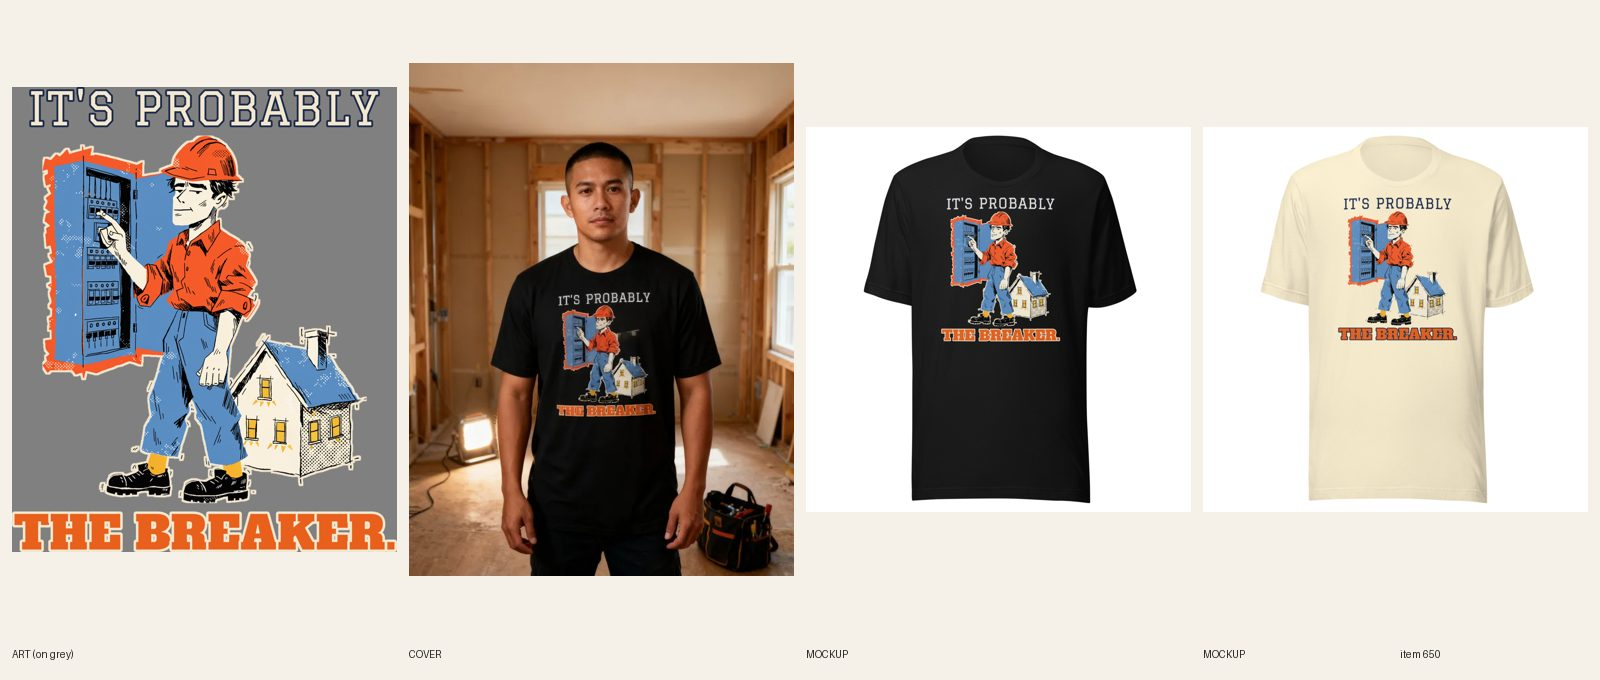
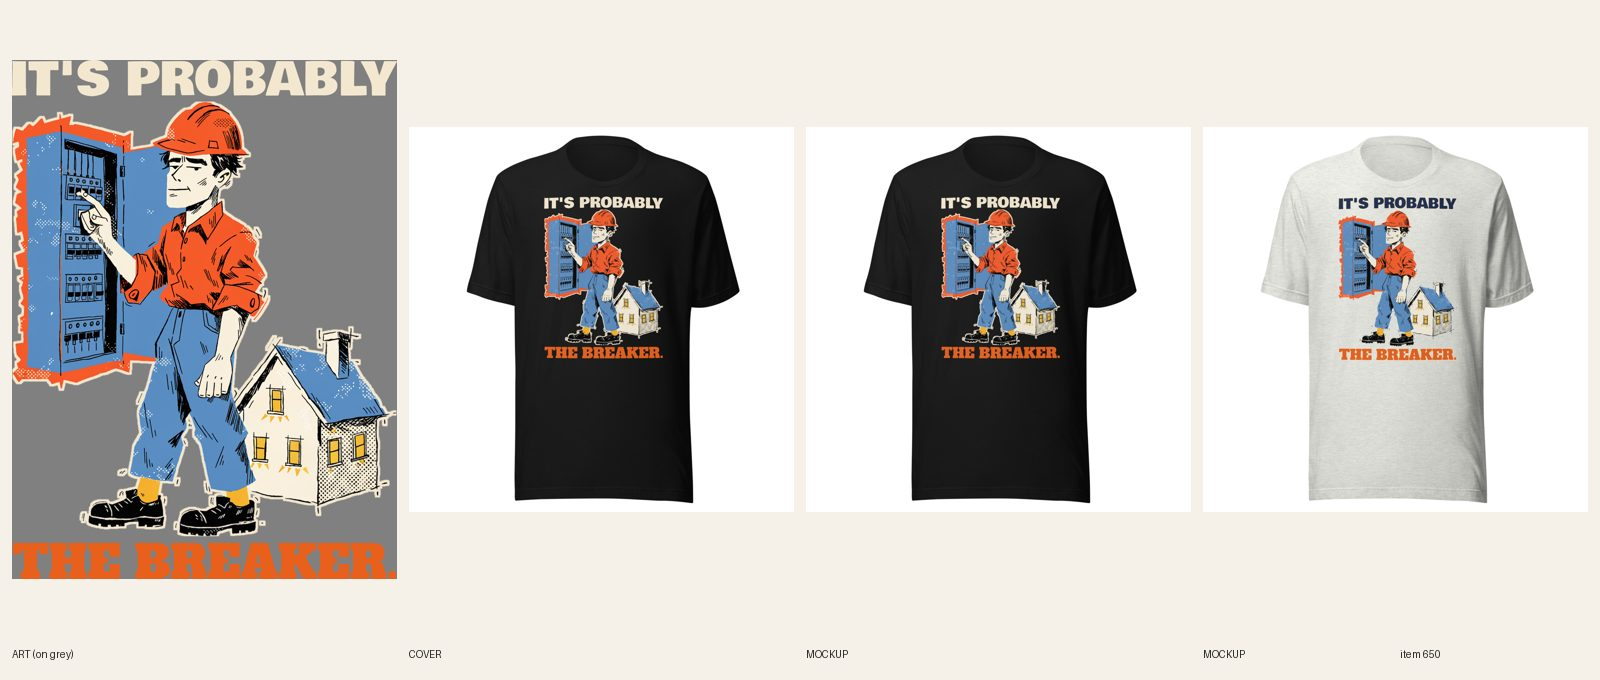
[E] review 650 Electrician It's Probably the Breaker tee (type redo)
Claude-Session: https://claude.ai/code/session_01EJqQXsS58F9S1PpjoqFE5d

diff --git a/designs/e650b/compose.py b/designs/e650b/compose.py
@@ -1,0 +1,27 @@
+#!/usr/bin/env python3
+"""#650 type redo: IT'S PROBABLY Bowlby One heavy at full art width, THE BREAKER. Alfa Slab One full art width, same electrician art.
+light file (dark blanks): cream + safety orange; dark file (Natural, Ash, Athletic Heather): navy + orange with cream keylines."""
+from PIL import Image, ImageDraw, ImageFont
+F = 'designs/fonts/'
+def line(text, font, fill, stroke, sfill, width):
+    size = 80
+    while True:
+        f = ImageFont.truetype(F + font, size)
+        bb = f.getbbox(text, stroke_width=stroke)
+        if bb[2] - bb[0] >= width or size > 2400: break
+        size += 4
+    im = Image.new('RGBA', (bb[2] - bb[0] + 20, bb[3] - bb[1] + 20), (0, 0, 0, 0))
+    ImageDraw.Draw(im).text((10 - bb[0], 10 - bb[1]), text, font=f, fill=fill, stroke_width=stroke, stroke_fill=sfill)
+    return im.crop(im.getbbox())
+def build(src, rows, out, c1, c2, s, k):
+    im = Image.open(src).convert('RGBA'); art = im.crop((0, rows[0], im.width, rows[1])); art = art.crop(art.getbbox()); W = art.width
+    l1 = line("IT'S PROBABLY", 'BowlbyOne-Regular.ttf', c1, k, s, W)
+    l2 = line('THE BREAKER.', 'AlfaSlabOne-Regular.ttf', c2, k, s, W)
+    stack = [l1, art, l2]; gaps = [40, 50]
+    o = Image.new('RGBA', (max(i.width for i in stack), sum(i.height for i in stack) + sum(gaps)), (0, 0, 0, 0)); y = 0
+    for n, i in enumerate(stack):
+        o.alpha_composite(i, ((o.width - i.width) // 2, y)); y += i.height + (gaps[n] if n < 2 else 0)
+    o.save(out, dpi=(300, 300)); print(out, o.size, 'ratio', o.height / o.width, 'l2/l1', l2.height / l1.height)
+CREAM, ORANGE, NAVY = '#f3e7cf', '#e8601c', '#1b2a4a'
+build('designs/e650/print_light.png', (431, 3693), 'designs/e650b/print_light.png', CREAM, ORANGE, NAVY, 0)
+build('designs/e650/print_dark.png', (417, 3679), 'designs/e650b/print_dark.png', NAVY, ORANGE, CREAM, 14)

diff --git a/docs/intake-log.md b/docs/intake-log.md
@@ -1,4 +1,4 @@
-RUNNING lane E since 2026-10-20 02:13 UTC
+2026-10-20 02:30 UTC — [E] Builder run: redid #650 Men's Electrician It's Probably the Breaker tee (type only: Bowlby One + Alfa Slab One at full art width, light file 1090101381 / dark file 1090101394, 56/56 relinked, 8 fronts replaced in place, copy updated, plain product shot). REVIEW. fal $0. Lock released.
 RUNNING director since 2026-10-20 02:13 UTC
 2026-10-19 22:06 UTC — [A] Builder run: redid #477 Women's Clocked It embroidered crewneck (type only: cat kept, heavy slab CLOCKED IT. at full cat width, SAID NOTHING. block letters on the cuff, white thread, 17/17 resynced, 4 images replaced in place, copy updated, plain product shot; fixed broken retired-covers.json comma). REVIEW. fal $0. Lock released.
 2026-10-19 22:41 UTC — [B] Builder run: redid #336 Women's Nana hoodie (type+line: NANA / WON'T TELL MOM., 12/12 relinked on 1089952064, 2 mockups replaced in place, copy updated, plain product shot). REVIEW. fal $0.
@@ -6,7 +6,6 @@ RUNNING lane B since 2026-10-19 22:02 UTC
 RUNNING lane C since 2026-10-19 21:54 UTC
 2026-10-19 21:43 UTC — [H] Helper run: Telegram inbox empty (getUpdates returned 0 updates; no pause, resume or TikTok links; nothing to consume). Audit (605 products): 0 errors, 30 warnings left alone (polish); no meta, SEO, collection or price errors to fix; announcement bar unchanged. Category check: 0 products without a category (Shopify query empty, no mutation). Site freshness: womens-clocked-it-said-nothing-graphic-tee, womens-mimi-says-yes-crewneck-sweatshirt, womens-gigi-because-grandma-sounded-old-crewneck-sweatshirt all 200. Stuck work: none (#632 BUILDING but claimed by lane E at 21:31 UTC; lane E lock 21:14 under 2 hours). Daily summary not due (sent 16:05 today). Lock released.
 2026-10-19 21:37 UTC — [A] Builder run: redid #474 Women's Feed Store Fashion Week hoodie (type only: Rye FEED STORE + Alfa Slab FASHION WEEK full width + heavy SATURDAY, 7 A.M., same art, FW 1500 TOP 0, Sand file 1089919414 / Navy file 1089919452, 12/12 relinked, 6 mockups replaced in place, copy updated, plain product shot). REVIEW. fal $0. Lock released.
-RUNNING lane E since 2026-10-19 21:14 UTC
 2026-10-19 22:01 UTC — [E] Builder run: redid #649 Men's Plumber Not Looking at Your Sink tee (type only: Bowlby One OFF DUTY. + Anton one line full width, light file 1089938931 / dark-ink file 1089939015, FW 1650 TOP 75, 56/56 relinked, 8 fronts replaced in place, copy updated, plain product shot). REVIEW, stays DRAFT. fal $0.
 2026-10-19 21:46 UTC — [E] Builder run: redid #632 Men's Hockey Not Weird, Just the Goalie tee (type only: Big Shoulders Black + Bowlby One, light file 1089919636 / dark-ink file 1089919669, FW 1650 TOP 75, 56/56 relinked, 8 fronts replaced in place, copy updated, plain product shot). REVIEW. fal $0.
 2026-10-19 21:30 UTC — [E] Builder run: redid #579 Men's Grandpa Ask Your Grandmother tee (type only: Bowlby One cream + Bevan mustard full art width, same art, FW 1650 TOP 75, file 1089909197, 28/28 resynced, 4 fronts replaced in place, copy updated, plain product shot). REVIEW. fal $0.

diff --git a/docs/pipeline/650-electrician-tee-its-probably-the-breaker.md b/docs/pipeline/650-electrician-tee-its-probably-the-breaker.md
@@ -1,4 +1,4 @@
-status: BUILDING [E] 2026-10-19 22:01
+status: REVIEW
 lane: E
 type: new
 id: 650
@@ -30,3 +30,4 @@ kd: 34
 - 2026-10-18 builder [E]: built. Art: 1 Recraft call ($0.04, try 1 kept: bored electrician in an orange hard hat flipping one breaker in an open blue panel, a small house with glowing windows). IT'S PROBABLY Graduate, THE BREAKER. Alfa Slab One safety orange #e8601c, set in compose-print with holes knocked out. Two files: dark ink (navy + orange, cream keyline) 1088968203 for Natural, Ash, Athletic Heather; light file: Black, Navy, Dark Grey Heather, Heather Forest, Steel Blue on 1088968221, headline fill cream #f3e7cf with a navy keyline, art halo 14 px. Print 3419 px wide, FW 1650 TOP 75. 8 colors x 7 sizes = 56 variants, 56/56 on the right file (7/7 per color), sync product 482797401. Mockups all 8 colors + back attached and linked; read at 400 px on Black, Steel Blue, Natural, Athletic Heather. DRAFT gid 15365754061104 (category aa-1-13-8, $24.99 no compare-at, tags men + funny + retro + ai-art + intake-done, 5 FAQs 45-52 words incl. Dec 8 and a plain not-safety-clothing answer, keyword electrician shirt 1300/KD34 in line one, SEO title and meta; kw map updated). Cover registry 990: attempt 1 kept (seedream, black tee, hands empty, tool bag and work light clear; first letters I and T clear, chest clean). fal ~$0.1.
 - 2026-10-18 17:04 UTC builder [E]: sync 56/56 confirmed. REVIEW.
 - 2026-10-19 09:16 UTC director: REDO (grade B, type only; the line stays against the quality-reset bar, docs/backlog/quality-reset.md; product stays DRAFT). 1. Quality-reset bar (type): 'IT'S PROBABLY' is a thin outlined collegiate face; on the Black mockup it is the weakest thing on the shirt, and the art floats between two bars. Set it heavy (same family weight as THE BREAKER.) at 90%+ width, colors from the art. 2. R7.7: re-link all variants, remake mockups and docs/review/650.jpg; cover waits on Sam's fal decision. Build it only when the reset allows lane work again.
+- 2026-10-20 02:30 UTC builder [E]: REDO type-only done (product stays DRAFT). Same electrician art, new lockup designs/e650b/compose.py: IT'S PROBABLY Bowlby One and THE BREAKER. Alfa Slab One, both full art width (second line 99% of headline height). Light file 1090101381 (cream + safety orange, 14 px halo) on Black, Navy, Dark Grey Heather, Heather Forest, Steel Blue; dark-ink file 1090101394 (navy + orange, cream keyline) on Natural, Ash, Athletic Heather: light file logged. FW 1650 TOP 75, 56/56 relinked and verified 7/7 per color. 8 fronts replaced in place in Shopify, Story updated. Cover: plain product shot (handle added to retired-covers.json). Phone-size read: both lines clear on Black and Ash. fal $0. Sheet docs/review/650.jpg.
